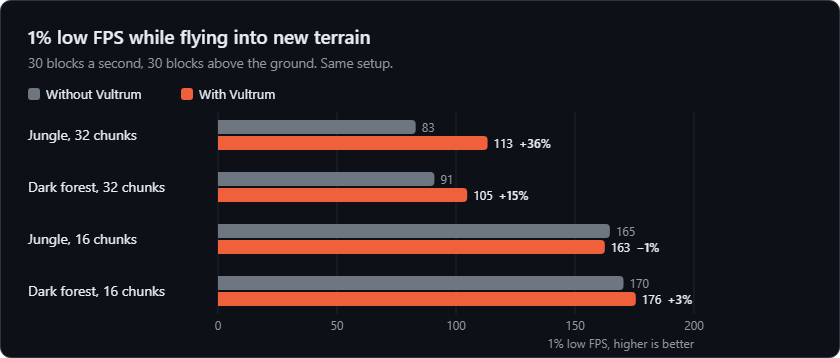
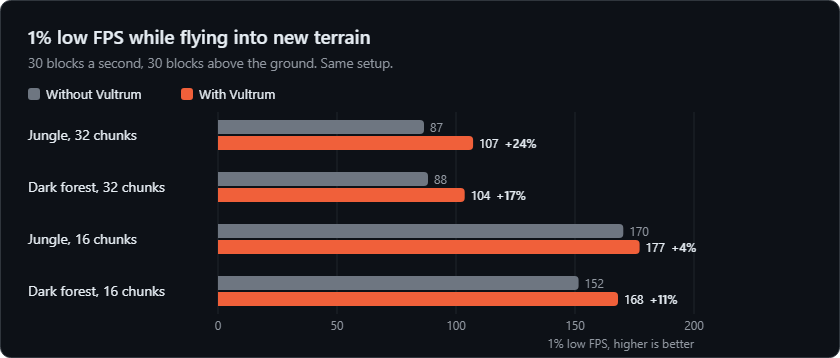
docs(bench): refresh performance results for vitrail 0.13

diff --git a/tools/readme_charts.py b/tools/readme_charts.py
@@ -19,10 +19,17 @@ import time
 ROOT = os.path.dirname(os.path.dirname(os.path.abspath(__file__)))
 OUT = os.path.join(ROOT, "docs", "images")
 
-# 0.1.0-alpha.1's series, 2026-10-12: -Shaders runs, A B B A per scenario, everything off for "without".
+# 0.1.0-alpha.5 with Vitrail 0.13.0-beta.vultrum.1, 2026-10-14: on/off/off/on after a warm-up.
+# Static views wait for quiet builds; "without" has every setting off, "with" uses the defaults.
 SERIES = {
-    "still": {"on": "*-a1-readme-s-on-*", "off": "*-a1-readme-s-off-*"},
-    "flight": {"on": "*-a1-readme-t-on-*", "off": "*-a1-readme-t-off-*"},
+    "still": {
+        "on": ["20261014-053249-review013-s-on-1", "20261014-055150-review013-s-on-4"],
+        "off": ["20261014-053910-review013-s-off-2", "20261014-054530-review013-s-off-3"],
+    },
+    "flight": {
+        "on": ["20261014-055811-review013-t-on-1", "20261014-060831-review013-t-on-4"],
+        "off": ["20261014-060136-review013-t-off-2", "20261014-060505-review013-t-off-3"],
+    },
 }
 
 THEMES = {
@@ -35,11 +42,21 @@ FONT = "-apple-system, BlinkMacSystemFont, 'Segoe UI', 'Noto Sans', Helvetica, A
 LEGEND = ("Without Vultrum", "With Vultrum")
 
 
-def runs(pattern):
-    found = sorted(glob.glob(os.path.join(ROOT, "bench-runs", pattern)))
-    if not found:
-        sys.exit(f"no runs match {pattern}")
-    return [json.load(open(os.path.join(r, "results.json"), encoding="utf-8")) for r in found]
+def run_dirs(patterns):
+    """Resolve explicit run names or legacy glob patterns for charts and screenshots."""
+    if isinstance(patterns, str):
+        patterns = [patterns]
+    found = set()
+    for pattern in patterns:
+        matched = glob.glob(os.path.join(ROOT, "bench-runs", pattern))
+        if not matched:
+            sys.exit(f"no runs match {pattern}")
+        found.update(matched)
+    return sorted(found)
+
+
+def runs(patterns):
+    return [json.load(open(os.path.join(r, "results.json"), encoding="utf-8")) for r in run_dirs(patterns)]
 
 
 def mean_by_case(results, metric):

diff --git a/tools/hero.py b/tools/hero.py
@@ -12,7 +12,6 @@ Headless Edge draws and encodes every frame, so no image library is needed. Afte
 frame of a scene, a frame holds only the strip the divider crossed, and this script packs them into one file.
 """
 import base64
-import glob
 import html
 import json
 import os
@@ -23,7 +22,7 @@ import sys
 import tempfile
 
 sys.path.insert(0, os.path.dirname(os.path.abspath(__file__)))
-from readme_charts import FONT, ROOT, SCENES, SERIES, change, load, metric  # noqa: E402
+from readme_charts import FONT, ROOT, SCENES, SERIES, change, load, metric, run_dirs  # noqa: E402
 
 EDGE = r"C:\Program Files (x86)\Microsoft\Edge\Application\msedge.exe"
 HERO = ["dark-forest-floor", "mountains", "ground-east"]
@@ -195,8 +194,8 @@ window.addEventListener('load', () => {
 """
 
 
-def screenshots(pattern, scene):
-    dirs = sorted(glob.glob(os.path.join(ROOT, "bench-runs", pattern)))
+def screenshots(patterns, scene):
+    dirs = run_dirs(patterns)
     return [p for p in (os.path.join(d, "screenshots", f"{scene}-rd{RD}.png") for d in dirs) if os.path.exists(p)]
 
 

diff --git a/README.md b/README.md
@@ -20,7 +20,7 @@
 </p>
 
 <p align="center">
-  <img src="docs/images/hero.webp" alt="The same view without Vultrum on the left and with it on the right, with a divider sweeping across. Dark forest 270 to 348 FPS (+29%), snowy peaks 263 to 296 (+12%), savanna hillside 329 to 369 (+12%). Both sides look the same.">
+  <img src="docs/images/hero.webp" alt="The same view without Vultrum on the left and with it on the right, with a divider sweeping across. Dark forest 272 to 354 FPS (+30%); Snowy peaks 264 to 299 FPS (+13%); Savanna hillside 332 to 376 FPS (+13%). Both sides look the same.">
   <br>
   <sub>Left without Vultrum, right with it. The same picture, more frames.</sub>
 </p>
@@ -32,7 +32,7 @@
 
 Minecraft 26.3 can draw with Vulkan instead of OpenGL. Vultrum adds two things on top of Sodium there.
 
-**With a Vitrail shader pack**, it works out on the GPU, every frame, which terrain is hidden behind hills, trees and buildings, and skips drawing it. It also leaves block faces out of the shadow map when they can't change a shadow. Dense scenes gain the most: 29% more FPS in a dark forest at render distance 32. Terrain and shadows look the same.
+**With a Vitrail shader pack**, it works out on the GPU, every frame, which terrain is hidden behind hills, trees and buildings, and skips drawing it. It also leaves block faces out of the shadow map when they can't change a shadow. Dense scenes gain the most: 30% more FPS in a dark forest at render distance 32. Terrain and shadows look the same.
 
 **With or without shaders**, it smooths out chunk loading. Sodium does some of its loading work in bursts: a pile of new chunks from the server, the chunks that leave your view, the cleanup after Java's garbage collector runs. Vultrum spreads that work over several frames, so flying into new terrain stutters less. Alpha.3 also spreads already-loaded terrain registration across frames after F3+A or a render distance change, reducing reload freezes.
 
@@ -42,56 +42,56 @@ Inspired by [Nvidium](https://github.com/MCRcortex/nvidium) and [Vercidium's vox
 
 ## Performance
 
-In alpha.3, median peak frames during repeated terrain reloads at 32 chunks were 27–47% shorter across three comparisons on the RTX 3090. A longer comparison confirmed the improvement. Average FPS stayed essentially unchanged; the change reduces reload freezes. The FPS charts and flight results below were measured with alpha.1.
+In alpha.3, median peak frames during repeated terrain reloads at 32 chunks were 27–47% shorter across three comparisons on the RTX 3090. A longer comparison confirmed the improvement. Average FPS stayed essentially unchanged; the change reduces reload freezes. The FPS charts and flight results below were measured with alpha.5.
 
 <picture>
   <source media="(prefers-color-scheme: dark)" srcset="docs/images/fps-dark.svg">
-  <img src="docs/images/fps-light.svg" alt="Bar chart of average FPS with shaders at 32 chunks, without and with Vultrum. Dark forest 270 to 348 (+29%), snowy peaks 263 to 296 (+12%), savanna hillside 329 to 369 (+12%), jungle 307 to 341 (+11%), savanna valley 297 to 325 (+10%), village 388 to 416 (+7%), high in the sky 269 to 271 (+1%).">
+  <img src="docs/images/fps-light.svg" alt="Bar chart of average FPS with shaders at 32 chunks, without and with Vultrum. Dark forest 272 to 354 (+30%); Snowy peaks 264 to 299 (+13%); Savanna hillside 332 to 376 (+13%); Jungle 311 to 347 (+12%); Savanna valley 299 to 331 (+11%); Village 390 to 424 (+9%); High in the sky 270 to 275 (+2%).">
 </picture>
 
 <picture>
   <source media="(prefers-color-scheme: dark)" srcset="docs/images/flight-dark.svg">
-  <img src="docs/images/flight-light.svg" alt="Bar chart of 1% low FPS while flying into new terrain, without and with Vultrum. Jungle at 32 chunks 83 to 113 (+36%), dark forest at 32 chunks 91 to 105 (+15%), jungle at 16 chunks 165 to 163 (-1%), dark forest at 16 chunks 170 to 176 (+4%).">
+  <img src="docs/images/flight-light.svg" alt="Bar chart of 1% low FPS while flying into new terrain, without and with Vultrum. Jungle at 32 chunks 87 to 107 (+24%); Dark forest at 32 chunks 88 to 104 (+17%); Jungle at 16 chunks 170 to 177 (+4%); Dark forest at 16 chunks 152 to 168 (+11%).">
 </picture>
 
-Complementary Unbound through Vitrail, 1920×1080 fullscreen, RTX 3090 and Ryzen 5 5600X, measured with Vultrum 0.1.0-alpha.1. "Without Vultrum" is the same game with all of Vultrum's settings off, which is plain Sodium and Vitrail. Every number is the mean of two runs of the benchmark in this repository ([`tools/bench.ps1`](tools/bench.ps1)).
+Complementary Unbound through Vitrail, 1920×1080 fullscreen, RTX 3090 and Ryzen 5 5600X, measured with Vultrum 0.1.0-alpha.5 and Vitrail 0.13.0-beta.vultrum.1. "Without Vultrum" is the same game with all of Vultrum's settings off, which is plain Sodium and Vitrail. Every number is the mean of two runs of the benchmark in this repository ([`tools/bench.ps1`](tools/bench.ps1)), after a discarded warm-up. Static scenes wait until terrain finishes building before recording.
 
-How much you gain depends on how much of the view is hidden. In a dark forest most of the terrain behind the first trees never gets drawn. High in the sky almost nothing is hidden, so the culling switches itself off and FPS stays where it was. At 16 chunks there's less to hide, and the gains are smaller (0 to 11%).
+How much you gain depends on how much of the view is hidden. In a dark forest most of the terrain behind the first trees never gets drawn. High in the sky almost nothing is hidden, so the culling switches itself off and FPS stays where it was. At 16 chunks there's less to hide, and the gains are smaller (0 to 13%).
 
-While flying at 32 chunks, the slowest 1% of frames got 15 to 36% faster, and the longest frame in the jungle went from 18.9 ms to 11.3 ms. At 16 chunks the difference was within the noise between runs.
+While flying at 32 chunks, 1% low FPS was 17 to 24% higher with Vultrum. These lows and the longest frames fluctuate between runs.
 
-Vitrail in these runs was [Vultrum's build of Vitrail](https://github.com/DebZakari/vitrail-shaders/releases/tag/0.12.0-beta.vultrum.3), which has a few speedups that Vitrail's own release doesn't have yet. With Vitrail from Modrinth, FPS will be somewhat lower overall.
+Vitrail in these runs was [Vultrum's build of Vitrail](https://github.com/DebZakari/vitrail-shaders/releases/tag/0.13.0-beta.vultrum.1), which has a few speedups that Vitrail's own release doesn't have yet. With Vitrail from Modrinth, FPS will be somewhat lower overall.
 
 <details>
 <summary>All numbers</summary>
 
-Standing still, 5 seconds per scene:
+Standing still, 10 seconds per scene:
 
 | Scene | Render distance | FPS without | FPS with | Change | 1% low without | 1% low with |
 |---|---:|---:|---:|---:|---:|---:|
-| Dark forest | 32 | 270 | 348 | +29% | 237 | 293 |
-| Snowy peaks | 32 | 263 | 296 | +12% | 234 | 260 |
-| Savanna hillside | 32 | 329 | 369 | +12% | 286 | 311 |
-| Jungle | 32 | 307 | 341 | +11% | 269 | 292 |
-| Savanna valley | 32 | 297 | 325 | +10% | 260 | 281 |
-| Village | 32 | 388 | 416 | +7% | 323 | 316 |
-| High in the sky | 32 | 269 | 271 | +1% | 238 | 239 |
-| Dark forest | 16 | 322 | 357 | +11% | 273 | 303 |
-| Snowy peaks | 16 | 342 | 356 | +4% | 277 | 298 |
-| Savanna hillside | 16 | 356 | 382 | +7% | 296 | 314 |
-| Jungle | 16 | 321 | 342 | +6% | 276 | 292 |
-| Savanna valley | 16 | 337 | 350 | +4% | 260 | 271 |
-| Village | 16 | 404 | 420 | +4% | 330 | 348 |
-| High in the sky | 16 | 384 | 383 | 0% | 323 | 322 |
+| Dark forest | 32 | 272 | 354 | +30% | 229 | 282 |
+| Snowy peaks | 32 | 264 | 299 | +13% | 224 | 247 |
+| Savanna hillside | 32 | 332 | 376 | +13% | 270 | 297 |
+| Jungle | 32 | 311 | 347 | +12% | 257 | 281 |
+| Savanna valley | 32 | 299 | 331 | +11% | 245 | 267 |
+| Village | 32 | 390 | 424 | +9% | 304 | 329 |
+| High in the sky | 32 | 270 | 275 | +2% | 226 | 233 |
+| Dark forest | 16 | 323 | 364 | +13% | 266 | 291 |
+| Snowy peaks | 16 | 345 | 360 | +4% | 279 | 289 |
+| Savanna hillside | 16 | 361 | 390 | +8% | 285 | 303 |
+| Jungle | 16 | 322 | 348 | +8% | 262 | 282 |
+| Savanna valley | 16 | 340 | 359 | +6% | 258 | 272 |
+| Village | 16 | 408 | 427 | +5% | 320 | 319 |
+| High in the sky | 16 | 388 | 387 | 0% | 303 | 307 |
 
-Flying straight ahead into terrain the game hasn't loaded yet:
+Flying straight ahead at 30 blocks a second for 10 seconds, into terrain the game hasn't loaded yet:
 
 | Flight | Render distance | FPS without | FPS with | 1% low without | 1% low with | 0.1% low without | 0.1% low with | Longest frame without | Longest frame with |
 |---|---:|---:|---:|---:|---:|---:|---:|---:|---:|
-| Jungle | 32 | 235 | 245 | 83 | 113 | 64 | 96 | 18.9 ms | 11.3 ms |
-| Dark forest | 32 | 197 | 213 | 91 | 105 | 71 | 88 | 14.7 ms | 12.2 ms |
-| Jungle | 16 | 332 | 337 | 165 | 163 | 123 | 117 | 10.4 ms | 12.1 ms |
-| Dark forest | 16 | 298 | 307 | 170 | 176 | 140 | 151 | 8.3 ms | 6.7 ms |
+| Jungle | 32 | 231 | 241 | 87 | 107 | 73 | 85 | 14.7 ms | 12.7 ms |
+| Dark forest | 32 | 195 | 210 | 88 | 104 | 66 | 87 | 16.5 ms | 13.4 ms |
+| Jungle | 16 | 326 | 334 | 170 | 177 | 140 | 152 | 8.1 ms | 6.9 ms |
+| Dark forest | 16 | 292 | 302 | 152 | 168 | 95 | 136 | 17.2 ms | 8.5 ms |
 
 </details>
 
